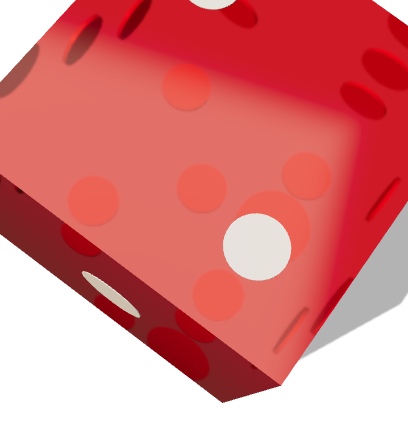
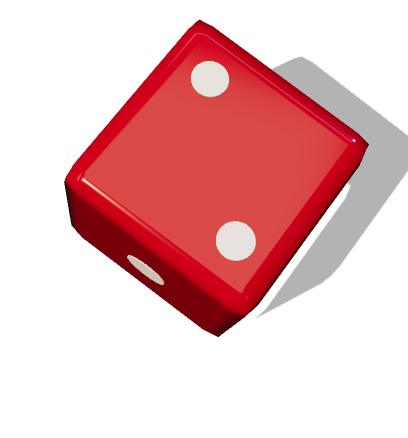
Rebuild the dice as clean cubes and drop the knife from card 7
The user found the dice did not read as dice. The renders were cropped
by a tight camera, and high transmission smeared the far pips into
blobs. They are now rounded cubes in denser acrylic, framed with
margin; DiceKit scales the images so the dice keep their size on screen.

Card 7's knife slid sideways while the receipt split top to bottom,
which looked odd. The user asked to drop it, so the knife, the split and
their SFX are removed and the whole receipt sits under the subline.
Lint is 0/0 and check passes.

Claude-Session: https://claude.ai/code/session_01V1tqCm3WQBjokw5UB1W8XZ

diff --git a/commercial/dice-explainer/index.html b/commercial/dice-explainer/index.html
@@ -61,23 +61,21 @@
       <audio id="sfx-24" class="clip" src="assets/sfx/pop.mp3" data-start="40.675" data-duration="0.72" data-track-index="64" data-volume="0.6"></audio>
       <audio id="sfx-25" class="clip" src="assets/sfx/pop.mp3" data-start="41.295" data-duration="0.72" data-track-index="65" data-volume="0.6"></audio>
       <audio id="sfx-26" class="clip" src="assets/sfx/pop.mp3" data-start="41.925" data-duration="0.72" data-track-index="66" data-volume="0.6"></audio>
-      <audio id="sfx-27" class="clip" src="assets/sfx/whoosh-short.mp3" data-start="42.495" data-duration="0.57" data-track-index="67" data-volume="0.8"></audio>
-      <audio id="sfx-28" class="clip" src="assets/sfx/impact-bass-2.mp3" data-start="42.895" data-duration="2.59" data-track-index="68" data-volume="0.8"></audio>
-      <audio id="sfx-29" class="clip" src="assets/sfx/riser.mp3" data-start="43.975" data-duration="10.03" data-track-index="69" data-volume="0.6"></audio>
-      <audio id="sfx-30" class="clip" src="assets/sfx/pop.mp3" data-start="45.675" data-duration="0.72" data-track-index="70" data-volume="0.6"></audio>
-      <audio id="sfx-31" class="clip" src="assets/sfx/pop.mp3" data-start="46.295" data-duration="0.72" data-track-index="71" data-volume="0.6"></audio>
-      <audio id="sfx-32" class="clip" src="assets/sfx/impact-bass-1.mp3" data-start="46.925" data-duration="2.12" data-track-index="72" data-volume="1.0"></audio>
-      <audio id="sfx-33" class="clip" src="assets/sfx/sparkle.mp3" data-start="46.975" data-duration="1.8" data-track-index="73" data-volume="0.6"></audio>
-      <audio id="sfx-34" class="clip" src="assets/sfx/whoosh-short.mp3" data-start="50.675" data-duration="0.57" data-track-index="74" data-volume="0.7"></audio>
-      <audio id="sfx-35" class="clip" src="assets/sfx/click-soft.mp3" data-start="51.475" data-duration="0.37" data-track-index="75" data-volume="0.9"></audio>
-      <audio id="sfx-36" class="clip" src="assets/sfx/click.mp3" data-start="54.095" data-duration="0.37" data-track-index="76" data-volume="0.9"></audio>
-      <audio id="sfx-37" class="clip" src="assets/sfx/sparkle.mp3" data-start="54.355" data-duration="1.8" data-track-index="77" data-volume="0.5"></audio>
-      <audio id="sfx-38" class="clip" src="assets/sfx/click.mp3" data-start="57.545" data-duration="0.37" data-track-index="78" data-volume="0.9"></audio>
-      <audio id="sfx-39" class="clip" src="assets/sfx/click.mp3" data-start="60.045" data-duration="0.37" data-track-index="79" data-volume="0.9"></audio>
-      <audio id="sfx-40" class="clip" src="assets/sfx/whoosh.mp3" data-start="62.235" data-duration="0.57" data-track-index="80" data-volume="0.8"></audio>
-      <audio id="sfx-41" class="clip" src="assets/sfx/click-soft.mp3" data-start="62.925" data-duration="0.37" data-track-index="81" data-volume="0.9"></audio>
-      <audio id="sfx-42" class="clip" src="assets/sfx/impact-bass-1.mp3" data-start="63.375" data-duration="2.12" data-track-index="82" data-volume="0.7"></audio>
-      <audio id="sfx-43" class="clip" src="assets/sfx/sparkle.mp3" data-start="63.375" data-duration="1.8" data-track-index="83" data-volume="0.5"></audio>
+      <audio id="sfx-27" class="clip" src="assets/sfx/riser.mp3" data-start="43.975" data-duration="10.03" data-track-index="67" data-volume="0.6"></audio>
+      <audio id="sfx-28" class="clip" src="assets/sfx/pop.mp3" data-start="45.675" data-duration="0.72" data-track-index="68" data-volume="0.6"></audio>
+      <audio id="sfx-29" class="clip" src="assets/sfx/pop.mp3" data-start="46.295" data-duration="0.72" data-track-index="69" data-volume="0.6"></audio>
+      <audio id="sfx-30" class="clip" src="assets/sfx/impact-bass-1.mp3" data-start="46.925" data-duration="2.12" data-track-index="70" data-volume="1.0"></audio>
+      <audio id="sfx-31" class="clip" src="assets/sfx/sparkle.mp3" data-start="46.975" data-duration="1.8" data-track-index="71" data-volume="0.6"></audio>
+      <audio id="sfx-32" class="clip" src="assets/sfx/whoosh-short.mp3" data-start="50.675" data-duration="0.57" data-track-index="72" data-volume="0.7"></audio>
+      <audio id="sfx-33" class="clip" src="assets/sfx/click-soft.mp3" data-start="51.475" data-duration="0.37" data-track-index="73" data-volume="0.9"></audio>
+      <audio id="sfx-34" class="clip" src="assets/sfx/click.mp3" data-start="54.095" data-duration="0.37" data-track-index="74" data-volume="0.9"></audio>
+      <audio id="sfx-35" class="clip" src="assets/sfx/sparkle.mp3" data-start="54.355" data-duration="1.8" data-track-index="75" data-volume="0.5"></audio>
+      <audio id="sfx-36" class="clip" src="assets/sfx/click.mp3" data-start="57.545" data-duration="0.37" data-track-index="76" data-volume="0.9"></audio>
+      <audio id="sfx-37" class="clip" src="assets/sfx/click.mp3" data-start="60.045" data-duration="0.37" data-track-index="77" data-volume="0.9"></audio>
+      <audio id="sfx-38" class="clip" src="assets/sfx/whoosh.mp3" data-start="62.235" data-duration="0.57" data-track-index="78" data-volume="0.8"></audio>
+      <audio id="sfx-39" class="clip" src="assets/sfx/click-soft.mp3" data-start="62.925" data-duration="0.37" data-track-index="79" data-volume="0.9"></audio>
+      <audio id="sfx-40" class="clip" src="assets/sfx/impact-bass-1.mp3" data-start="63.375" data-duration="2.12" data-track-index="80" data-volume="0.7"></audio>
+      <audio id="sfx-41" class="clip" src="assets/sfx/sparkle.mp3" data-start="63.375" data-duration="1.8" data-track-index="81" data-volume="0.5"></audio>
       <div id="frame" style="z-index:50" data-composition-id="frame" data-composition-src="compositions/frame.html" data-start="9.375" data-duration="58.75" data-track-index="20" data-track-kind="graphics" data-width="1080" data-height="1920"></div>
     </div>
     <script>

diff --git a/commercial/dice-explainer/tools/props.html b/commercial/dice-explainer/tools/props.html
@@ -45,9 +45,11 @@ function stage(w, h, camPos, look) {
 const PIPS = { 1: [[0, 0]], 2: [[-1, -1], [1, 1]], 3: [[-1, -1], [0, 0], [1, 1]], 4: [[-1, -1], [1, -1], [-1, 1], [1, 1]], 5: [[-1, -1], [1, -1], [0, 0], [-1, 1], [1, 1]], 6: [[-1, -1], [-1, 0], [-1, 1], [1, -1], [1, 0], [1, 1]] };
 function die() {
   const g = new T.Group();
-  const body = new T.Mesh(new T.BoxGeometry(1, 1, 1, 1, 1, 1), new T.MeshPhysicalMaterial({
-    color: "#ff2a45", transmission: 0.9, thickness: 0.8, ior: 1.49, roughness: 0.03, clearcoat: 1, clearcoatRoughness: 0.02,
-    attenuationColor: new T.Color("#c4001e"), attenuationDistance: 1.1, specularIntensity: 1, envMapIntensity: 1.1 }));
+  // A real cube with slightly rounded edges (like the casino dice on the table photo). Dense red acrylic: just
+  // enough transmission to glow, not enough for the far pips to smear into blobs.
+  const body = new T.Mesh(roundedBox(1, 1, 1, 0.06, 10), new T.MeshPhysicalMaterial({
+    color: "#e0102e", transmission: 0.35, thickness: 1.2, ior: 1.49, roughness: 0.12, clearcoat: 1, clearcoatRoughness: 0.05,
+    attenuationColor: new T.Color("#8a0014"), attenuationDistance: 0.5, specularIntensity: 0.8, envMapIntensity: 0.9 }));
   body.castShadow = true; g.add(body);
   const pipM = new T.MeshStandardMaterial({ color: "#fbfaf7", roughness: 0.35 });
   // standard die: 1 opposite 6, 2 opposite 5, 3 opposite 4. Faces: +y=1, -y=6, +z=2, -z=5, +x=3, -x=4
@@ -55,13 +57,13 @@ function die() {
   for (const [n, nrm] of faces) {
     for (const [u, v] of PIPS[n]) {
       const r = n === 1 ? 0.11 : 0.085;
-      const pip = new T.Mesh(new T.CylinderGeometry(r, r, 0.012, 40), pipM);
+      const pip = new T.Mesh(new T.CylinderGeometry(r, r, 0.014, 40), pipM);
       const n3 = new T.Vector3(...nrm);
       pip.quaternion.setFromUnitVectors(new T.Vector3(0, 1, 0), n3);
       // in-face axes
       const a = Math.abs(n3.y) > 0.5 ? new T.Vector3(1, 0, 0) : new T.Vector3(0, 1, 0);
       const b = new T.Vector3().crossVectors(n3, a);
-      pip.position.copy(n3.clone().multiplyScalar(0.497)).addScaledVector(a, u * 0.26).addScaledVector(b, v * 0.26);
+      pip.position.copy(n3.clone().multiplyScalar(0.499)).addScaledVector(a, u * 0.26).addScaledVector(b, v * 0.26);
       g.add(pip);
     }
   }
@@ -71,10 +73,10 @@ function die() {
 const UP = { 1: [0, 0, 0], 6: [Math.PI, 0, 0], 2: [Math.PI / 2, 0, 0], 5: [-Math.PI / 2, 0, 0], 3: [0, 0, Math.PI / 2], 4: [0, 0, -Math.PI / 2] };
 
 window.renderDie = (face, tumble = null) => {
-  const { scene, cam } = stage(408, 438, [0.22, 3.05, 1.1], [0, 0.5, 0.08]);
+  const { scene, cam } = stage(408, 438, [0.32, 4.3, 1.55], [0, 0.48, 0.1]);
   const d = die(); d.position.y = 0.5;
   const [x, y, z] = UP[face]; d.rotation.set(x, y, z);
-  if (tumble) { d.rotation.x += tumble[0]; d.rotation.y += tumble[1]; d.rotation.z += tumble[2]; d.position.y = 0.72; }
+  if (tumble) { d.rotation.x += tumble[0]; d.rotation.y += tumble[1]; d.rotation.z += tumble[2]; d.position.y = 0.62; }
   scene.add(d); renderer.render(scene, cam); return canvas.toDataURL("image/png");
 };
 
@@ -109,18 +111,6 @@ window.renderCoin = (tilt = 0) => {
   const gold = new T.MeshPhysicalMaterial({ color: "#f2c464", metalness: 1, roughness: 0.32, clearcoat: 0.4, envMapIntensity: 1.6 });
   const coin = new T.Mesh(new T.CylinderGeometry(0.62, 0.62, 0.09, 96), gold); coin.position.y = 0.05 + tilt * 0.3; coin.rotation.z = tilt; coin.castShadow = true; scene.add(coin);
   const ring = new T.Mesh(new T.TorusGeometry(0.47, 0.02, 12, 96), gold); ring.rotation.x = Math.PI / 2; ring.position.y = 0.1 + tilt * 0.3; ring.rotation.y = tilt; scene.add(ring);
-  renderer.render(scene, cam); return canvas.toDataURL("image/png");
-};
-window.renderKnife = () => {
-  const { scene, cam } = stage(900, 300, [-0.3, 4.6, 1.4], [-0.3, 0, 0]);
-  const sh = new T.Shape(); sh.moveTo(-1.6, 0); sh.lineTo(1.0, 0.0); sh.quadraticCurveTo(1.25, 0.06, 1.2, 0.2); sh.lineTo(-1.6, 0.2); sh.lineTo(-1.6, 0);
-  const blade = new T.Mesh(new T.ExtrudeGeometry(sh, { depth: 0.02, bevelEnabled: true, bevelThickness: 0.01, bevelSize: 0.008, bevelSegments: 2 }),
-    new T.MeshPhysicalMaterial({ color: "#eef1f4", metalness: 0.85, roughness: 0.28, envMapIntensity: 1.6 }));
-  blade.rotation.x = -Math.PI / 2; blade.position.y = 0.05; blade.castShadow = true; scene.add(blade);
-  const handle = new T.Mesh(new T.CapsuleGeometry(0.11, 0.9, 8, 24), new T.MeshPhysicalMaterial({ color: "#3a2416", roughness: 0.5, clearcoat: 0.6 }));
-  handle.rotation.z = Math.PI / 2; handle.position.set(-2.15, 0.12, -0.1); handle.castShadow = true; scene.add(handle);
-  const ferrule = new T.Mesh(new T.CylinderGeometry(0.12, 0.12, 0.08, 32), new T.MeshPhysicalMaterial({ color: "#d8b26a", metalness: 1, roughness: 0.3 }));
-  ferrule.rotation.z = Math.PI / 2; ferrule.position.set(-1.65, 0.12, -0.1); scene.add(ferrule);
   renderer.render(scene, cam); return canvas.toDataURL("image/png");
 };
 // The thrower's right hand, seen from the back, fingers up: the man from img 1 (navy blazer, white shirt cuff,

diff --git a/commercial/dice-explainer/compositions/s7.html b/commercial/dice-explainer/compositions/s7.html
@@ -27,23 +27,18 @@
 <div id="s7-dA" class="die" data-face="3" style="left:392px;top:360px;width:130px;height:140px"></div><div id="s7-dB" class="die" data-face="3" style="left:558px;top:360px;width:130px;height:140px"></div>
 <div class="big foil" id="s7-pct" style="top:540px;font-size:300px"><span class="ltr">−50%*</span></div>
 <div class="sub" style="top:852px;font-size:58px">על כל החשבון של השולחן</div>
-<div id="s7-rcL" style="position:absolute;left:290px;top:960px;width:500px;height:360px;clip-path:polygon(0 0, 52% 0, 46% 100%, 0 100%)"><img src="assets/img/receipt.png" alt="" style="position:absolute;left:-60px;top:-110px;width:620px;height:auto"></div>
-<div id="s7-rcR" style="position:absolute;left:290px;top:960px;width:500px;height:360px;clip-path:polygon(52% 0, 100% 0, 100% 100%, 46% 100%)"><img src="assets/img/receipt.png#right-half" alt="" style="position:absolute;left:-60px;top:-110px;width:620px;height:auto"></div>
-<img id="s7-knife" class="art" src="assets/img/knife.png" alt="" style="left:560px;top:880px;width:520px;height:auto">
+<img id="s7-rc" class="art" src="assets/img/receipt.png" alt="" style="left:325px;top:930px;width:430px;height:auto">
 
   </div>
   <script>
     (() => {
       const tl = gsap.timeline({ paused: true });
       DiceKit.mount(["#s7-dA", "#s7-dB"]);
-      tl.set("#s7-rcL", { x: -34, y: 10, rotation: -5 }, 0); tl.set("#s7-rcR", { x: 34, y: -6, rotation: 4 }, 0); tl.set("#s7-knife", { rotation: -8 }, 0); tl.set("#s7-dA", { rotation: -8 }, 0); tl.set("#s7-dB", { rotation: 7 }, 0);
+      tl.set("#s7-rc", { rotation: -3 }, 0); tl.set("#s7-dA", { rotation: -8 }, 0); tl.set("#s7-dB", { rotation: 7 }, 0);
 for (const [i, f] of [[0, 1], [1, 2], [2, 3]]) {
   DiceKit.setFace(tl, "#s7-dA", f, i * 0.625); DiceKit.setFace(tl, "#s7-dB", f, i * 0.625);
   tl.fromTo(["#s7-dA", "#s7-dB"], { scale: 1.25 }, { scale: 1, duration: 0.3, ease: "back.out(2)", immediateRender: i === 0 }, i * 0.625);
 }
-tl.fromTo("#s7-knife", { x: 520, y: -40, rotation: -8 }, { x: -760, y: 60, rotation: -14, duration: 0.55, ease: "power3.in" }, 1.85);
-tl.fromTo("#s7-rcL", { x: 0, y: 0, rotation: 0 }, { x: -34, y: 10, rotation: -5, duration: 0.6, ease: "expo.out" }, 2.25);
-tl.fromTo("#s7-rcR", { x: 0, y: 0, rotation: 0 }, { x: 34, y: -6, rotation: 4, duration: 0.6, ease: "expo.out" }, 2.25);
 tl.fromTo("#s7-pct", { backgroundPosition: "100% 0" }, { backgroundPosition: "0% 0", duration: 1.4, ease: "power2.inOut" }, 2.3);
 
       window.__timelines["s7"] = tl;

diff --git a/commercial/dice-explainer/assets/dice-kit.js b/commercial/dice-explainer/assets/dice-kit.js
@@ -14,8 +14,8 @@
   // Vegas casino dice, rendered in real 3D by tools/render_props.js: 6 resting faces and 12 tumbling poses.
   function svg() {
     let s = "";
-    for (let n = 1; n <= 6; n++) s += `<img class="face f${n}" src="assets/img/die-${n}.png" alt="" style="position:absolute;inset:0;width:100%;height:100%;opacity:0">`;
-    for (let k = 0; k < 12; k++) s += `<img class="face roll" src="assets/img/die-roll-${k}.png" alt="" style="position:absolute;inset:0;width:100%;height:100%;opacity:0">`;
+    for (let n = 1; n <= 6; n++) s += `<img class="face f${n}" src="assets/img/die-${n}.png" alt="" style="position:absolute;left:-22%;top:-22%;width:144%;height:144%;opacity:0">`;
+    for (let k = 0; k < 12; k++) s += `<img class="face roll" src="assets/img/die-roll-${k}.png" alt="" style="position:absolute;left:-22%;top:-22%;width:144%;height:144%;opacity:0">`;
     return s;
   }
 

diff --git a/commercial/dice-explainer/tools/render_props.js b/commercial/dice-explainer/tools/render_props.js
@@ -18,7 +18,6 @@ const OUT = path.join(__dirname, "..", "assets", "img");
   for (let k = 0; k < 12; k++) await save(`die-roll-${k}.png`, `renderDie(${(k % 6) + 1}, [${(0.35 + 0.22 * k).toFixed(2)}, ${(0.5 * k).toFixed(2)}, ${(0.6 - 0.17 * k).toFixed(2)}])`);
   await save("receipt.png", "renderReceipt()");
   await save("coin.png", "renderCoin(0)");
-  await save("knife.png", "renderKnife()");
   for (const p of ["fist", "release", "open"]) await save(`hand-${p}.png`, `renderHand("${p}")`);
   await browser.close();
 })();

diff --git a/commercial/dice-explainer/build.py b/commercial/dice-explainer/build.py
@@ -281,16 +281,13 @@ card("s6b", 25.0, 6.25, f"""
 """, css=FELT_CSS, js=place("s6b", 330, 700, 680, 820))
 
 # 7. Prize: double 1-2-3, 50% off
-RECEIPT = '<img src="assets/img/receipt.png" alt="" style="position:absolute;left:-60px;top:-110px;width:620px;height:auto">'
 card("s7", 31.25, 5.0, f"""
 <div class="h" style="top:206px;font-size:110px">דאבל 1 · 2 · 3</div>
 {die("s7-dA", 3, 392, 360, 130)}{die("s7-dB", 3, 558, 360, 130)}
 <div class="big foil" id="s7-pct" style="top:540px;font-size:300px"><span class="ltr">−50%*</span></div>
 <div class="sub" style="top:852px;font-size:58px">על כל החשבון של השולחן</div>
-<div id="s7-rcL" style="position:absolute;left:290px;top:960px;width:500px;height:360px;clip-path:polygon(0 0, 52% 0, 46% 100%, 0 100%)">{RECEIPT}</div>
-<div id="s7-rcR" style="position:absolute;left:290px;top:960px;width:500px;height:360px;clip-path:polygon(52% 0, 100% 0, 100% 100%, 46% 100%)">{RECEIPT.replace('receipt.png', 'receipt.png#right-half')}</div>
-<img id="s7-knife" class="art" src="assets/img/knife.png" alt="" style="left:560px;top:880px;width:520px;height:auto">
-""", js="""tl.set("#s7-rcL", { x: -34, y: 10, rotation: -5 }, 0); tl.set("#s7-rcR", { x: 34, y: -6, rotation: 4 }, 0); tl.set("#s7-knife", { rotation: -8 }, 0); tl.set("#s7-dA", { rotation: -8 }, 0); tl.set("#s7-dB", { rotation: 7 }, 0);""")
+<img id="s7-rc" class="art" src="assets/img/receipt.png" alt="" style="left:325px;top:930px;width:430px;height:auto">
+""", js="""tl.set("#s7-rc", { rotation: -3 }, 0); tl.set("#s7-dA", { rotation: -8 }, 0); tl.set("#s7-dB", { rotation: 7 }, 0);""")
 
 # 8. Prize: double 4-5-6, jackpot
 PETALS = "".join(
@@ -435,9 +432,6 @@ for (const [i, f] of [[0, 1], [1, 2], [2, 3]]) {
   DiceKit.setFace(tl, "#s7-dA", f, i * 0.625); DiceKit.setFace(tl, "#s7-dB", f, i * 0.625);
   tl.fromTo(["#s7-dA", "#s7-dB"], { scale: 1.25 }, { scale: 1, duration: 0.3, ease: "back.out(2)", immediateRender: i === 0 }, i * 0.625);
 }
-tl.fromTo("#s7-knife", { x: 520, y: -40, rotation: -8 }, { x: -760, y: 60, rotation: -14, duration: 0.55, ease: "power3.in" }, 1.85);
-tl.fromTo("#s7-rcL", { x: 0, y: 0, rotation: 0 }, { x: -34, y: 10, rotation: -5, duration: 0.6, ease: "expo.out" }, 2.25);
-tl.fromTo("#s7-rcR", { x: 0, y: 0, rotation: 0 }, { x: 34, y: -6, rotation: 4, duration: 0.6, ease: "expo.out" }, 2.25);
 tl.fromTo("#s7-pct", { backgroundPosition: "100% 0" }, { backgroundPosition: "0% 0", duration: 1.4, ease: "power2.inOut" }, 2.3);
 """,
 "s8": """
@@ -492,8 +486,7 @@ SFX = [  # (file, time in s, volume)
     ("sparkle", 6.75, .5), ("whoosh-short", 10.05, .7), ("pop", 14.1, .5), ("whoosh-short", 17.65, .6), ("pop", 18.85, .6),
     ("whoosh", 21.55, .8), ("click-soft", 22.4, .9), ("click", 22.47, .9), ("impact-bass-2", 23.22, .8), ("pop", 23.88, .8),
     ("whoosh", 25.55, .8), ("click", 26.27, 1.0), ("click", 26.9, 1.0), ("impact-bass-1", 28.27, .8),
-    ("pop", 31.3, .6), ("pop", 31.92, .6), ("pop", 32.55, .6), ("whoosh-short", 33.12, .8), ("impact-bass-2", 33.52, .8),
-    ("riser", 34.6, .6), ("pop", 36.3, .6), ("pop", 36.92, .6), ("impact-bass-1", 37.55, 1.0), ("sparkle", 37.6, .6),
+    ("pop", 31.3, .6), ("pop", 31.92, .6), ("pop", 32.55, .6), ("riser", 34.6, .6), ("pop", 36.3, .6), ("pop", 36.92, .6), ("impact-bass-1", 37.55, 1.0), ("sparkle", 37.6, .6),
     ("whoosh-short", 41.3, .7), ("click-soft", 42.1, .9), ("click", 44.72, .9), ("sparkle", 44.98, .5),
     ("click", 48.17, .9), ("click", 50.67, .9), ("whoosh", 52.86, .8), ("click-soft", 53.55, .9), ("impact-bass-1", 54.0, .7), ("sparkle", 54.0, .5),
 ]

diff --git a/commercial/dice-explainer/HANDOFF.md b/commercial/dice-explainer/HANDOFF.md
@@ -1,6 +1,6 @@
 # HANDOFF: Yoko Ono dice-game video
 
-Updated after every step. Last update: final deliverables rendered: the Reels master, the screen loop and the 15 s cut. The script is in Hebrew and SPEC is at v5. Waiting on the user's feedback and the Instagram handle.
+Updated after every step. Last update: user feedback round after the finals: knife/cut removed from card 7, dice rebuilt as clean rounded cubes. The hand in Kling is priced and waiting for approval; the user is asking the owner for feedback.
 
 ## What this is
 An animated 9:16 Hebrew ad (1080×1920, 24 fps, about 68 s) for the dice game at **Yoko Ono Asian Kitchen** (Ahuza 124, Ra'anana).
@@ -125,6 +125,11 @@ ffmpeg -i renders/x.mp4 -c:v libx264 -crf 27 -c:a aac -b:a 128k -movflags +fasts
    - `tools/derive.sh` → `yoko-dice-15s.mp4`: the chef, the perfect throw, −50%, the jackpot and the end card.
    - The `*-send.mp4` files are compressed copies for chat.
 7. When the user sends the Instagram handle: replace `@[instagram]` in `build.py` (card s12), then re-render the master and run `tools/derive.sh`.
+
+## Feedback round 1 (after the finals)
+- **Card 7:** the knife moved sideways while the receipt split top to bottom, which looked odd. The user asked to drop it. The knife, the split and their two SFX are removed; the whole receipt now sits under the subline (430 px wide). `knife.png` and `renderKnife` are deleted.
+- **Dice:** they "didn't look like dice". There were two causes: the camera was framed too tight, so the die was cut off at the image edges, and the high transmission refracted the far pips into blobs. Fixed with a rounded cube (r 0.06), denser acrylic (transmission 0.35), a wider camera ([0.32, 4.3, 1.55]) and tumble height 0.62. DiceKit draws each image at 144% so the dice keep their size on screen.
+- **Hand:** the user wants the hand scene made in Kling too. Priced: still 0.25 + Kling std 3 s clip 4.5. **Not generated; waiting for a yes.**
 
 ## Still open with the user
 - The Instagram handle for the end card (currently `@[instagram]`). The user will upload the restaurant's site.
